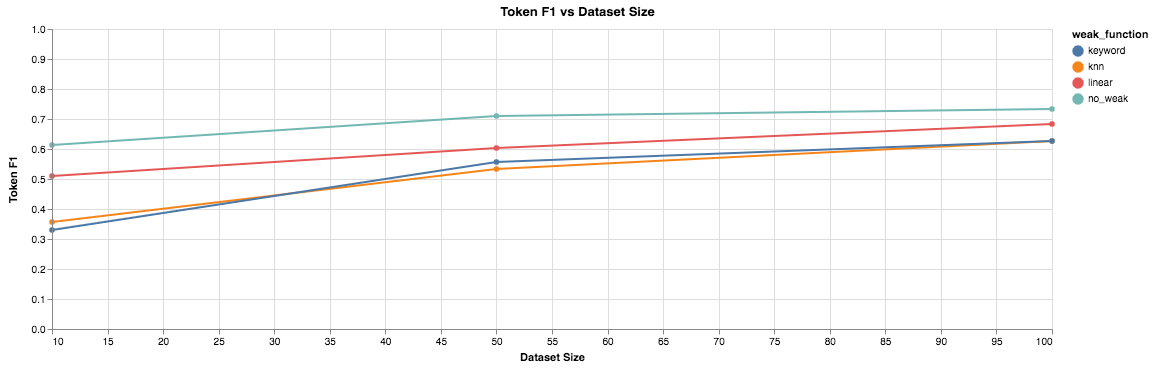
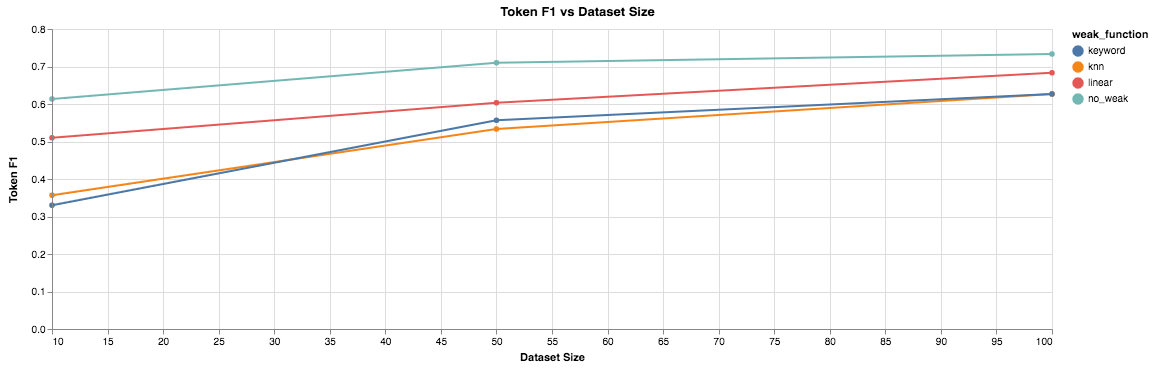
updated blog post images

diff --git a/docs/blog_5.md b/docs/blog_5.md
@@ -84,6 +84,8 @@ Similar to the approach above we attempt to the same algorithm except replacing 
 
 ## Performance Report
 
+*Note: in the graphs presented throughout this section, the y axis scale changes to better see the differences in the lines.*
+
 In this section we report the performance of the various baselines we tested.
 
 First we consider, what if we just used the heuristics above to label our entire valid set, and see what our reported performances are for each of these functions. In particular, given a randomly sampled training set of 50 instances, if we generated our weak functions based on the heuristics described in baselines, what would our performance be on the dev set. The table below shows the results average over 3 runs.
@@ -116,7 +118,7 @@ As compared to the earlier baseline experiments from the last blog post, we can 
 
 These results also show, especially with regards to the table above, that the different functions are capturing different things (e.g. `kNN` has high recall and `linear` has a comparitive higher precision), this leads into our goal for the next advanced solution to look into some way of using multiple heuristics together.
 
-We can further analyze the affect of different weak functions by increasing the weight of the weak set to `0.1`, while this performs much worse, we can see that using a `linear` weak function performs better than the other weak functions.
+We can further analyze the affect of different weak functions by increasing the weight of the weak set (by a degree of magnitude) to `0.1`, while this performs much worse, we can see that using a `linear` weak function performs better than the other weak functions.
 
 ![active learning weight 0.1](figures/blog_5_al_0.1_weight.png)
 
